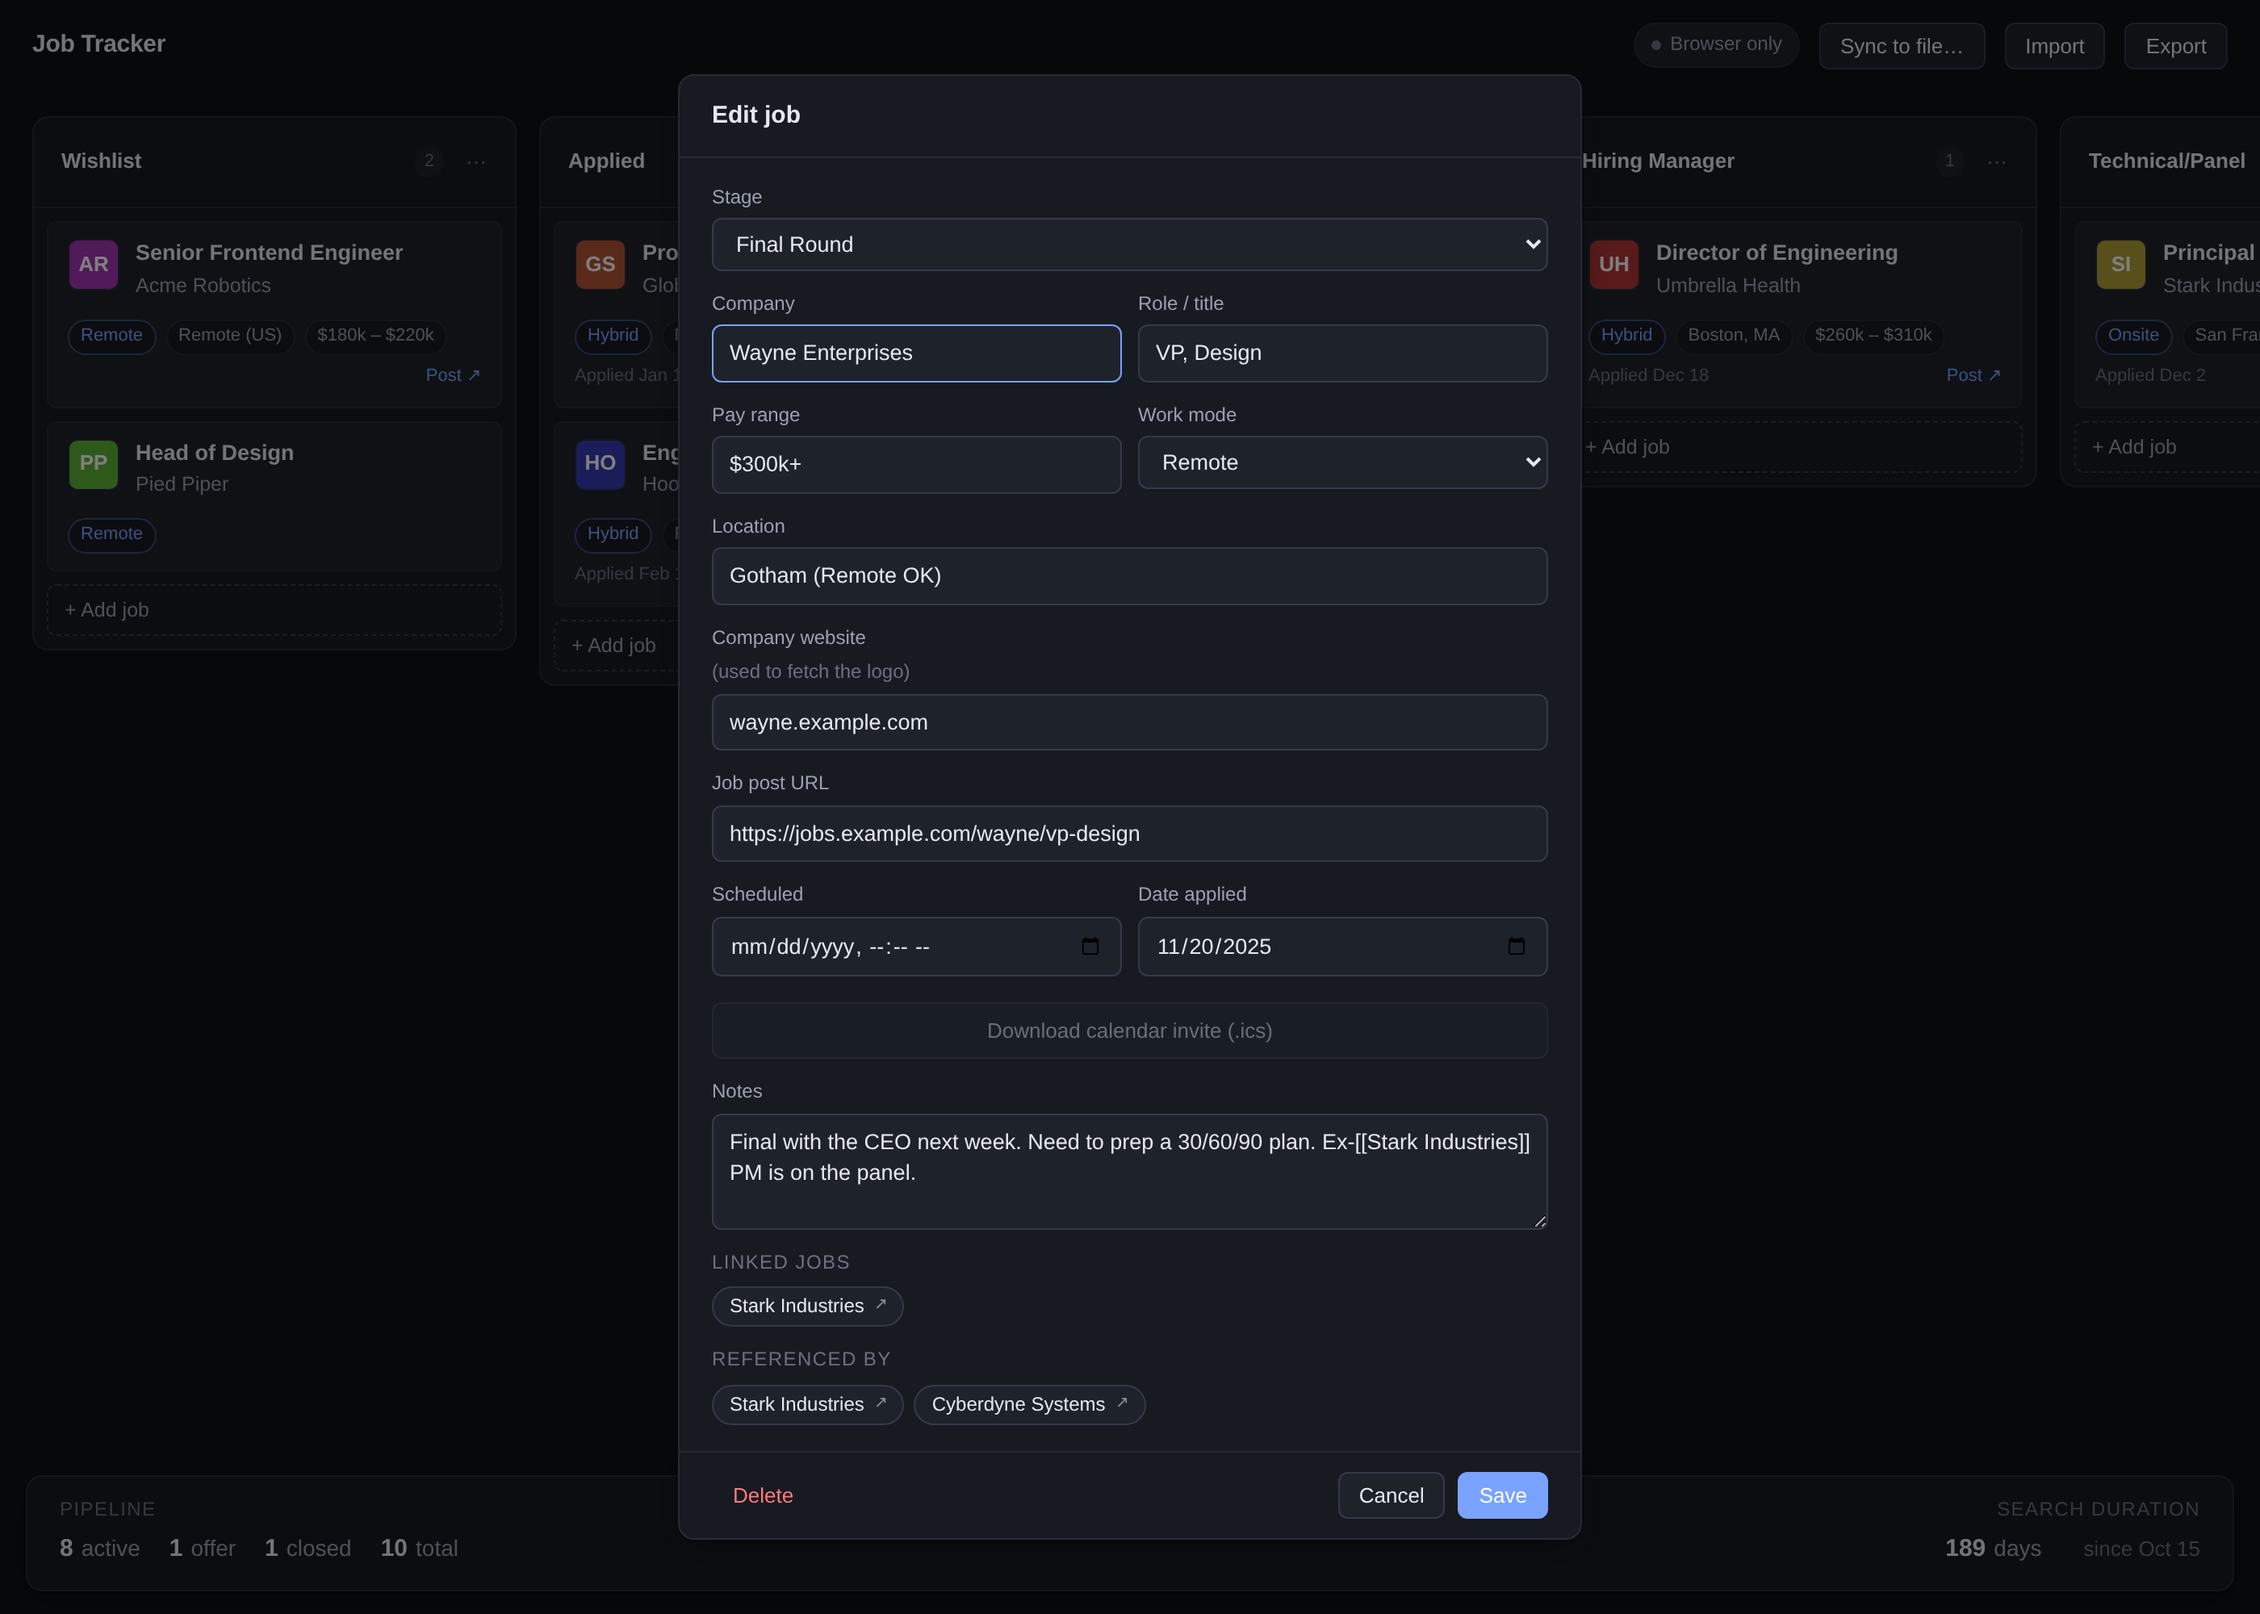
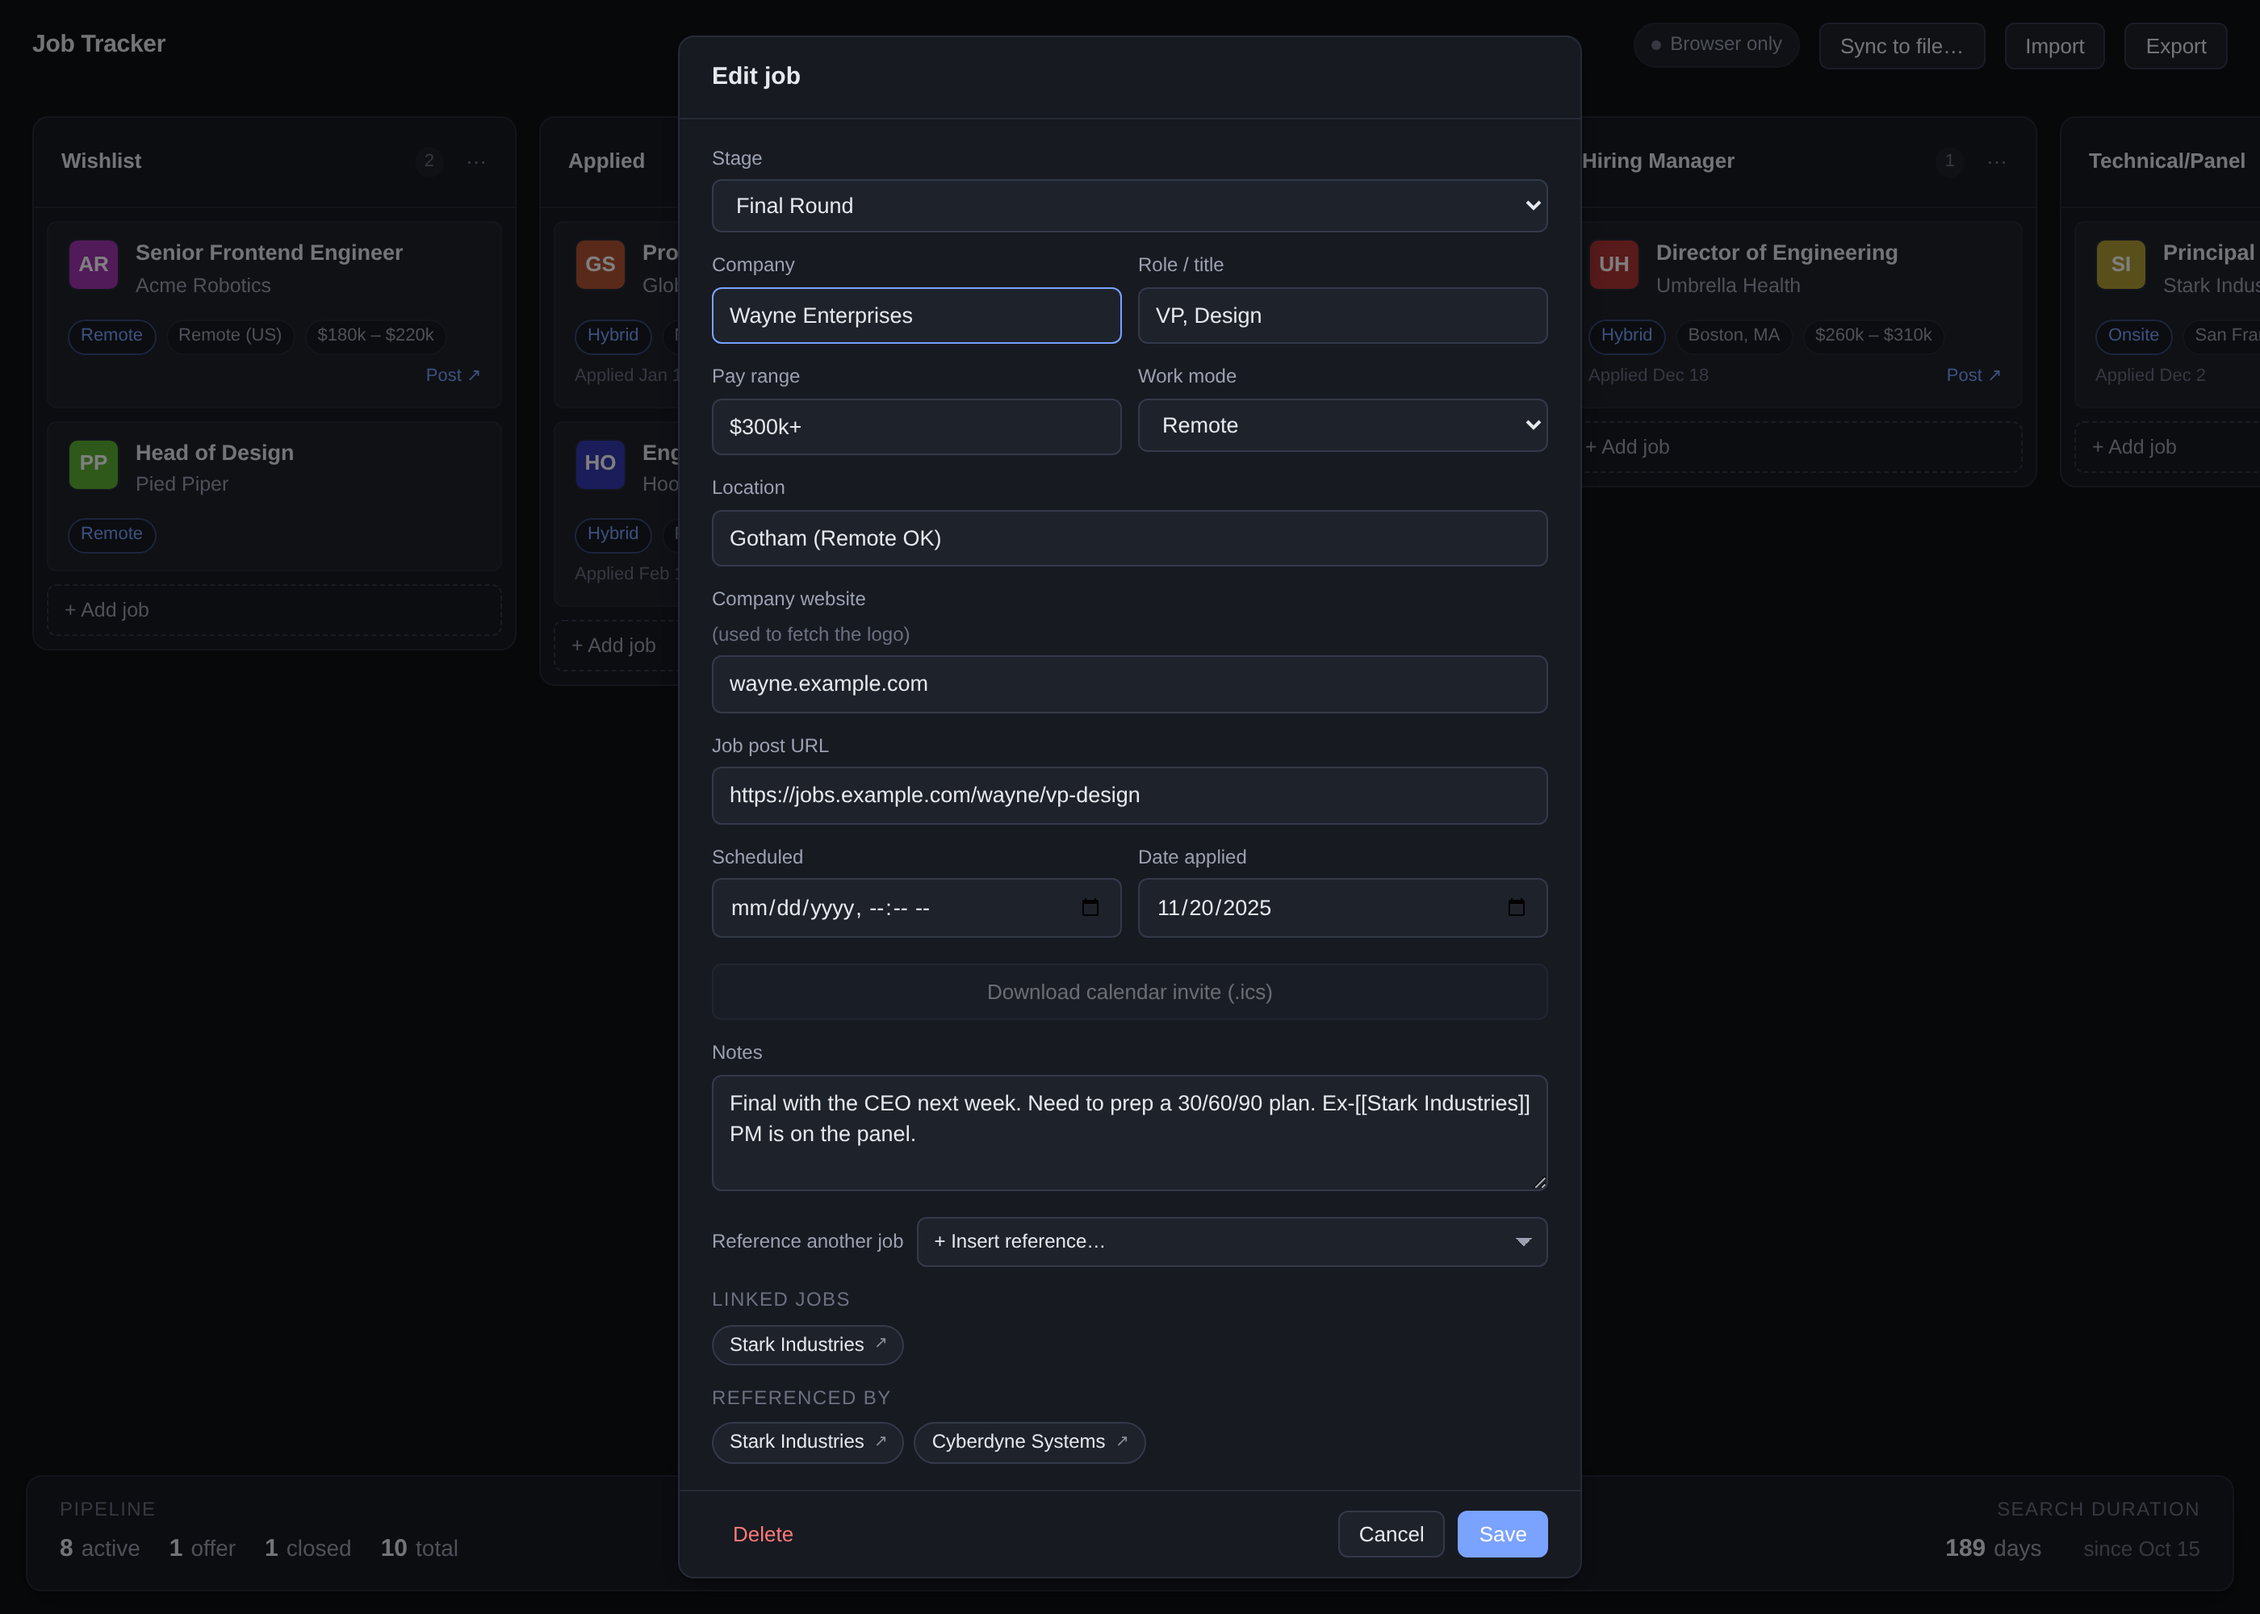
Add a reference-picker dropdown so links are spelling-proof
Modal now has a "Reference another job" select right under Notes
that lists every other card. Picking one inserts [[Company Name]]
at the current cursor position in the notes textarea, with smart
leading/trailing whitespace handling, and the linked-jobs chip
appears immediately.

Self is filtered from the dropdown. When there are no other cards
to reference, the picker stays visible but disabled so the
affordance remains discoverable.

Notes textarea placeholder + README updated to mention the picker.

diff --git a/index.html b/index.html
@@ -486,6 +486,39 @@
     white-space: nowrap;
   }
 
+  /* Reference-picker dropdown, sits above Linked jobs */
+  .ref-picker-row {
+    display: flex;
+    align-items: center;
+    gap: 8px;
+    margin-top: 4px;
+  }
+  .ref-picker-row .ref-picker-label {
+    font-size: 12px;
+    color: var(--text-dim);
+  }
+  .ref-picker {
+    flex: 1;
+    appearance: none;
+    -webkit-appearance: none;
+    background: var(--bg-elev-2);
+    color: var(--text);
+    border: 1px solid var(--border-strong);
+    border-radius: var(--radius-sm);
+    padding: 6px 28px 6px 10px;
+    font-size: 12px;
+    font-family: inherit;
+    cursor: pointer;
+    background-image: linear-gradient(45deg, transparent 50%, var(--text-dim) 50%),
+                      linear-gradient(135deg, var(--text-dim) 50%, transparent 50%);
+    background-position: calc(100% - 14px) center, calc(100% - 9px) center;
+    background-size: 5px 5px, 5px 5px;
+    background-repeat: no-repeat;
+  }
+  .ref-picker:hover { border-color: var(--accent); }
+  .ref-picker:focus { outline: none; border-color: var(--accent); }
+  .ref-picker:disabled { opacity: 0.5; cursor: not-allowed; }
+
   /* Linked-jobs / backlinks chips in the modal */
   .link-chips {
     display: flex;
@@ -664,8 +697,14 @@
       </div>
       <button type="button" id="btn-download-ics" class="ics-btn-full" title="Download a calendar invite (.ics) for the scheduled time" disabled>Download calendar invite (.ics)</button>
       <label>Notes
-        <textarea id="f-notes" placeholder="Recruiter name, interview feedback, prep notes… Reference other jobs with [[Company Name]]."></textarea>
+        <textarea id="f-notes" placeholder="Recruiter name, interview feedback, prep notes… Reference other jobs with [[Company Name]] or use the picker below."></textarea>
       </label>
+      <div class="ref-picker-row" id="ref-picker-row" style="display:none">
+        <span class="ref-picker-label">Reference another job</span>
+        <select class="ref-picker" id="ref-picker">
+          <option value="">+ Insert reference…</option>
+        </select>
+      </div>
       <div id="linked-jobs-block" style="display:none">
         <div class="stats-label" style="margin-bottom:6px">Linked jobs</div>
         <div class="link-chips" id="linked-jobs"></div>
@@ -1241,11 +1280,74 @@ function openJobModal(cardId, targetColId) {
 
   updateIcsButtonState();
   renderScheduleHistory(card);
+  populateRefPicker();
   renderLinkChips();
   renderBacklinks(card);
 
   jobModal.classList.add("open");
   setTimeout(() => document.getElementById("f-company").focus(), 40);
+}
+
+/* ---------- Reference picker ---------- */
+// Fills the dropdown with every other card so the user can insert a
+// [[Company Name]] reference without having to remember the exact spelling.
+function populateRefPicker() {
+  const picker = document.getElementById("ref-picker");
+  const row = document.getElementById("ref-picker-row");
+  const editingCompany = document.getElementById("f-company").value.trim().toLowerCase();
+  // Build a sorted list of {company, role} for every other card.
+  const others = Object.values(state.cards)
+    .filter(c => {
+      if (editingCardId && c.id === editingCardId) return false;
+      // Also filter out a card whose company matches the one being edited
+      // (covers the "new card" case before it has an id).
+      if (editingCompany && (c.company || "").trim().toLowerCase() === editingCompany) return false;
+      return !!c.company;
+    })
+    .sort((a, b) => (a.company || "").localeCompare(b.company || ""));
+
+  picker.innerHTML = "";
+  const placeholder = document.createElement("option");
+  placeholder.value = "";
+  placeholder.textContent = others.length
+    ? "+ Insert reference…"
+    : "No other jobs to reference yet";
+  picker.appendChild(placeholder);
+  others.forEach(c => {
+    const opt = document.createElement("option");
+    opt.value = c.company;
+    opt.textContent = c.role ? `${c.company} — ${c.role}` : c.company;
+    picker.appendChild(opt);
+  });
+  picker.disabled = others.length === 0;
+  // Always show the row so the affordance is discoverable, even if disabled.
+  row.style.display = "";
+}
+
+document.getElementById("ref-picker").addEventListener("change", (e) => {
+  const company = e.target.value;
+  if (!company) return;
+  insertWikilinkAtCursor(company);
+  // Reset to placeholder so the same item can be inserted twice in a row.
+  e.target.selectedIndex = 0;
+});
+
+function insertWikilinkAtCursor(company) {
+  const ta = document.getElementById("f-notes");
+  const link = `[[${company}]]`;
+  const before = ta.value.slice(0, ta.selectionStart);
+  const after = ta.value.slice(ta.selectionEnd);
+  // Insert with sensible whitespace: a leading space if the previous char
+  // isn't whitespace or the start of a string, and a trailing space if the
+  // next char isn't whitespace or punctuation/end.
+  const needsLead = before.length > 0 && !/\s$/.test(before);
+  const needsTrail = after.length > 0 && !/^[\s.,;:!?)\]]/.test(after);
+  const insertion = (needsLead ? " " : "") + link + (needsTrail ? " " : "");
+  ta.value = before + insertion + after;
+  const cursor = before.length + insertion.length;
+  ta.focus();
+  ta.setSelectionRange(cursor, cursor);
+  renderLinkChips();
 }
 
 /* ---------- [[Wiki-style]] links between jobs ---------- */

diff --git a/README.md b/README.md
@@ -105,6 +105,7 @@ Leveraging the [[Wayne Enterprises|Wayne]] timeline to set a deadline.
 - `[[Company Name|alias]]` — same, but renders with custom link text. Inside a markdown table cell, escape the pipe as `\|` so the table still parses.
 - Unresolved links (no matching company yet) render as a dimmed chip so you know it's a placeholder.
 - The destination card's modal automatically shows a **Referenced by** list of every card linking to it — two-way traversal without any extra bookkeeping.
+- **Don't want to type the link by hand?** The card modal has a **Reference another job** dropdown right under the Notes field. Pick any other card and the matching `[[wikilink]]` is inserted at your cursor position with smart whitespace.
 
 Because the syntax is plain `[[...]]`, the same file is a valid Obsidian vault — open `companies.md` in Obsidian and your links are real wikilinks there too.
 
